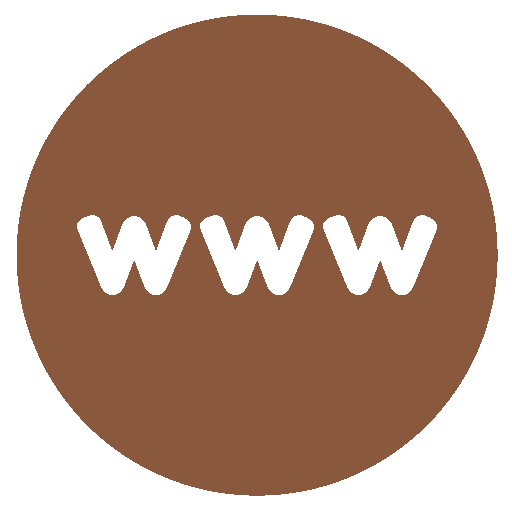
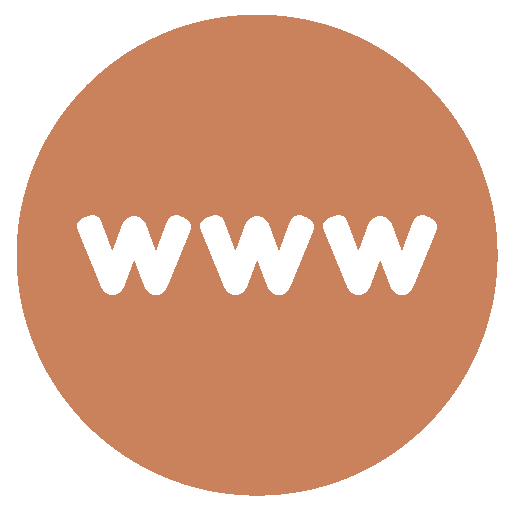
update background image and text color

diff --git a/cv.html b/cv.html
@@ -48,10 +48,8 @@
 
               <div class="accordion-item">
                 <h5 class="accordion-header" id="flush-headingOne">
-                  <button class="accordion-button collapsed" type="button" data-bs-toggle="collapse" data-bs-target="#flush-collapseOne" aria-expanded="false"  aria-controls="flush-collapseOne">
-                    <svg xmlns="http://www.w3.org/2000/svg" width="20" height="20" fill="currentColor" class="bi bi-house-door-fill" viewBox="0 0 16 16">
-                      <path d="M6.5 14.5v-3.505c0-.245.25-.495.5-.495h2c.25 0 .5.25.5.5v3.5a.5.5 0 0 0 .5.5h4a.5.5 0 0 0 .5-.5v-7a.5.5 0 0 0-.146-.354L13 5.793V2.5a.5.5 0 0 0-.5-.5h-1a.5.5 0 0 0-.5.5v1.293L8.354 1.146a.5.5 0 0 0-.708 0l-6 6A.5.5 0 0 0 1.5 7.5v7a.5.5 0 0 0 .5.5h4a.5.5 0 0 0 .5-.5z"/>
-                    </svg>coordo<span class="alt">nn</span>ées
+                  <button class="accordion-button collapsed" type="button" data-bs-toggle="collapse" data-bs-target="#flush-collapseOne" aria-expanded="false" aria-controls="flush-collapseOne">
+                    <svg xmlns="http://www.w3.org/2000/svg" width="20" height="20" fill="currentColor" class="bi bi-house-door-fill" viewBox="0 0 16 16"><path d="M6.5 14.5v-3.505c0-.245.25-.495.5-.495h2c.25 0 .5.25.5.5v3.5a.5.5 0 0 0 .5.5h4a.5.5 0 0 0 .5-.5v-7a.5.5 0 0 0-.146-.354L13 5.793V2.5a.5.5 0 0 0-.5-.5h-1a.5.5 0 0 0-.5.5v1.293L8.354 1.146a.5.5 0 0 0-.708 0l-6 6A.5.5 0 0 0 1.5 7.5v7a.5.5 0 0 0 .5.5h4a.5.5 0 0 0 .5-.5z"/></svg>coordo<span class="alt">nn</span>ées
                   </button>
                 </h5>
                 <div id="flush-collapseOne" class="accordion-collapse collapse" aria-labelledby="flush-headingOne" >
@@ -59,21 +57,21 @@
                     <ul>
                       <li>
                         <a href="https://maps.app.goo.gl/GZMeW5AeQvTWgA489" target="_blank" rel="noopener">
-                          <svg xmlns="http://www.w3.org/2000/svg" width="20" height="20" fill="currentColor" class="bi bi-geo-alt-fill" viewBox="0 0 16 16">
+                          <svg xmlns="http://www.w3.org/2000/svg" width="16" height="16" fill="currentColor" class="bi bi-geo-alt-fill" viewBox="0 0 16 16">
                             <path d="M8 16s6-5.686 6-10A6 6 0 0 0 2 6c0 4.314 6 10 6 10zm0-7a3 3 0 1 1 0-6 3 3 0 0 1 0 6z"/>
                           </svg> 33000 Bordeaux
                         </a>
                       </li>
                       <li>
                         <a href="https://www.linkedin.com/in/carolinevézina" target="_blank" rel="noopener">
-                          <svg xmlns="http://www.w3.org/2000/svg" width="20" height="20" fill="currentColor" class="bi bi-linkedin" viewBox="0 0 16 16">
+                          <svg xmlns="http://www.w3.org/2000/svg" width="16" height="16" fill="currentColor" class="bi bi-linkedin" viewBox="0 0 16 16">
                             <path d="M0 1.146C0 .513.526 0 1.175 0h13.65C15.474 0 16 .513 16 1.146v13.708c0 .633-.526 1.146-1.175 1.146H1.175C.526 16 0 15.487 0 14.854V1.146zm4.943 12.248V6.169H2.542v7.225h2.401zm-1.2-8.212c.837 0 1.358-.554 1.358-1.248-.015-.709-.52-1.248-1.342-1.248-.822 0-1.359.54-1.359 1.248 0 .694.521 1.248 1.327 1.248h.016zm4.908 8.212V9.359c0-.216.016-.432.08-.586.173-.431.568-.878 1.232-.878.869 0 1.216.662 1.216 1.634v3.865h2.401V9.25c0-2.22-1.184-3.252-2.764-3.252-1.274 0-1.845.7-2.165 1.193v.025h-.016a5.54 5.54 0 0 1 .016-.025V6.169h-2.4c.03.678 0 7.225 0 7.225h2.4z"/>
                           </svg> /carolinevézina
                         </a>
                       </li>
                       <li>
                         <a href="mailto:caroline_vezina@hotmail.com" target="_blank" rel="noopener">
-                          <svg xmlns="http://www.w3.org/2000/svg" width="20" height="20" fill="currentColor" class="bi bi-envelope-fill" viewBox="0 0 16 16">
+                          <svg xmlns="http://www.w3.org/2000/svg" width="16" height="16" fill="currentColor" class="bi bi-envelope-fill" viewBox="0 0 16 16">
                             <path d="M.05 3.555A2 2 0 0 1 2 2h12a2 2 0 0 1 1.95 1.555L8 8.414.05 3.555ZM0 4.697v7.104l5.803-3.558L0 4.697ZM6.761 8.83l-6.57 4.027A2 2 0 0 0 2 14h12a2 2 0 0 0 1.808-1.144l-6.57-4.027L8 9.586l-1.239-.757Zm3.436-.586L16 11.801V4.697l-5.803 3.546Z"/>
                           </svg> caroline_vezina@hotmail.com
                         </a>

diff --git a/style.css b/style.css
@@ -57,7 +57,8 @@
 }
 
 header {
-  background: url('images/header.png') no-repeat;
+  background-color: #377a79;
+  /*background: url('images/header.png') no-repeat;*/
   height: 50px;
 }
 
@@ -78,7 +79,7 @@ h2 {
 h3, h3 a{
   font-size: 1.6rem;
   text-align: center;
-  color: #7A5037;
+  color: #5AC7C5;
 }
 h4 {
   font-size: 2rem;
@@ -86,16 +87,12 @@ h4 {
 h5 {
   font-size: 1rem;
   text-align: center;
-  color: #7A5037;
-}
-
-a {
-  color: #BA7954;
+  color: #5AC7C5;
 }
 
 .body {
   padding-top: 17%;
-  background: url('images/body.png') repeat;
+  background: url('images/body.jpg') repeat;
   min-height: 100vh;
 }
 
@@ -129,13 +126,14 @@ ul, a {
   text-align: justify;
 }
 .presentation p {
-  color: #7A5037;
+  color: white;
 }
-.signature {
+.presentation .signature {
   font-family: 'Signature', 'Century Gothic', 'Segoe UI', Tahoma, Geneva, Verdana, sans-serif;
   font-size: 2rem;
   margin-left: 10%;
   font-weight: bold;
+  color: #5AC7C5;
 }
 .cv, .projets {
   text-align: left;
@@ -151,11 +149,11 @@ ul, a {
   color: #7A5037;
 }
 ul .sous-menu {
-  color: #377a79;
+  color: #377A79;
   list-style-type: circle;
 }
 .dropdown-item:hover, .dropdown-item:hover u, .dropdown-item:focus {
-  background-color: #377a79;
+  background-color: #377A79;
   color: white;
 }
 .dropdown {
@@ -169,17 +167,14 @@ ul .sous-menu {
 .dropdown .btn:focus {
   border-color: #BA7954;
 }
-.dropdown .bi-list:hover, .dropdown .bi-list:focus {
-  color: #7A5037;
-}
 
 .accordion {
-  border-bottom: 1px solid #BA7954;
+  border-bottom: 1px solid #7A5037;
   border-radius: 0;
 }
 .accordion-item {
-  border: 1px solid #BA7954;
-  background: rgba(255, 255, 255, 30%);
+  border: 1px solid #7A5037;
+  background: rgba(255, 255, 255, 50%);
 }
 .accordion-item button svg, .accordion-item .accordion-body svg {
   margin-right: 8px;
@@ -203,8 +198,8 @@ ul .sous-menu {
 .accordion-button:not(.collapsed)::after {
   filter: brightness(0%) invert(100%);
 }
-.accordion-body {
-  color: #7A5037;
+.accordion-body, .accordion-body a {
+  color: white;
 }
 .accordion-body ul {
   margin-left: -25px;
@@ -311,18 +306,17 @@ ul .sous-menu {
 }
 .wrapper-projet img {
   width: 100%;
-  object-fit: co;
 }
 .wrapper-projet .tools img {
   width: inherit;
   object-fit: inherit;
 }
 .wrapper-projet .text {
-  color: #7A5037;
+  color: #5AC7C5;
   font-size: 1.25rem;
   text-align: center;
   font-family: 'MuseoModerno', 'Century Gothic', 'Segoe UI', Tahoma, Geneva, Verdana, sans-serif;
-  margin-bottom: -2vh;
+  margin-top: 2rem;
 }
 .wrapper-projet .title {
   display: none;
@@ -330,15 +324,17 @@ ul .sous-menu {
 .wrapper-projet .description {
   grid-column: 1 / 5;
   grid-row: 1;
-  color: #7A5037;
-  text-align: center;
+}
+.wrapper-projet .description p {
+  color: white;
+  text-align: justify;
 }
 .wrapper-projet .description img {
   width: inherit;
   object-fit: contain;
 }
 .wrapper-projet .description .ecole {
-  color: #377a79;
+  color: #BA7954;
   font-weight: bold;
 }
 .wrapper-projet .description .link {
@@ -346,10 +342,13 @@ ul .sous-menu {
   padding-top: 2vh;
   height: 2rem;
 }
+.wrapper-projet .description .link a {
+  color: #BA7954;
+}
 .wrapper-projet .tools {
   grid-column: 1 / 5;
   grid-row: 2;
-  color: #377a79;
+  color: white;
   text-align: center;
   border-bottom: 1px solid #377a79;
   padding-bottom: 2vh;
@@ -729,7 +728,7 @@ ul .sous-menu {
   .accordion-item>h3 {
     font-size: 1rem;
   }
-  a:hover, .navbar-brand:hover {
+  a:hover, .navbar-brand:hover, .description .link a:hover, .dropdown>a:hover {
     color: #7A5037;
   }
   .dropdown {
@@ -743,6 +742,10 @@ ul .sous-menu {
   }
   .body {
     padding-top: 5%;
+  }
+  .accordion-button:hover {
+    color: white;
+    background: #377A79;
   }
   .accordion-body {
     font-size: 0.75rem;

diff --git a/projets/lagrumeindigo.html b/projets/lagrumeindigo.html
@@ -55,15 +55,15 @@
           <p>Dans le cadre de ma formation visé par le <span class="ecole">titre professionnel Développeur Web</span>, j'ai réalisé une évaluation (ECF) durant les mois de septembre et octobre 2022. Puisque cela a été fait en distanciel, j'ai conçu ce projet en total autonomie. 
           L'évaluation consistait à développer une application web de gestion de droit d'accès. Je devais donc créer différents rôles et réaliser une interface adaptable à tous les formats d'écran, personnalisée au type d'utilisateur.</p>
           <p>Le sujet imposé : Une grande Marque de salle de sport souhaite la création d'une application web pour son équipe qui gère leurs différentes franchises et leur donner accès aux outils en ligne. L'administration de la Marque doit pouvoir gérer la création de nouvelles franchises ainsi que leurs salles de sport et leur associer un utilisateur. Elle pourra également gérer l'accès aux outils disponibles de chaque partenaire selon le contrat signé avec ces derniers. Les franchisés et les gérants de salles de sport doivent quant à eux pouvoir utiliser les outils en lignes selon leur contrat respectif, sans pouvoir toutefois modifier leurs informations ou leur contrat.</p>
-          <a href="https://lagrumeindigo.herokuapp.com" target="_blank" ><img src="../images/00_icones/www.png" width="24" height="24" /> lagrumeindigo.herokuapp.com</a></p>
+          <p class="link"><a href="https://lagrumeindigo.herokuapp.com" target="_blank" ><img src="../images/00_icones/www.png" width="24" height="24" /> lagrumeindigo.herokuapp.com</a></p>
         </div>
         <div class="item tools">
           <img src="../images/00_icones/drawio-original.svg" width="16" height="16" /> diagrammes 
             &nbsp&nbsp | &nbsp&nbsp          
           <img src="../images/00_icones/adobe-xd-original.png" width="16" height="16" /> maquettage 
             &nbsp&nbsp | &nbsp&nbsp
-          <img src="../images/00_icones/php-original.jpg" width="16" height="16" />
-          <img src="../images/00_icones/symfony-original.png" width="16" height="16" /> framework
+          <img src="../images/00_icones/php-original.png" width="16" height="16" />
+          <img src="../images/00_icones/symfony.png" width="16" height="16" /> framework
             &nbsp&nbsp | &nbsp&nbsp
           <img src="../images/00_icones/doctrine-original.png" width="16" height="16" /> ORM
             &nbsp&nbsp | &nbsp&nbsp
@@ -77,10 +77,10 @@
             &nbsp&nbsp | &nbsp&nbsp
           <img src="../images/00_icones/Xampp-original.svg" width="16" height="16" /> serveur web local
             &nbsp&nbsp | &nbsp&nbsp
-          <img src="../images/00_icones/sql-original.png" width="16" height="16" />
+          <img src="../images/00_icones/sql-original2.png" width="16" height="16" />
           <img src="../images/00_icones/JawsDB-original.jpg" width="16" height="16" /> base de données 
             &nbsp&nbsp | &nbsp&nbsp
-          <img src="../images/00_icones/github-original.svg" width="16" height="16" /> dépôt en ligne 
+          <img src="../images/00_icones/github.svg" width="16" height="16" /> dépôt en ligne 
             &nbsp&nbsp | &nbsp&nbsp
           <img src="../images/00_icones/heroku-original.png" width="16" height="16" /> déploiement du site en ligne
         </div>

diff --git a/projets/asso-vignoblebordeaux.html b/projets/asso-vignoblebordeaux.html
@@ -54,7 +54,7 @@
           <h3 class="title-mobile">Association de vignobles de Bordeaux</h3>
           <p>Afin de mettre en pratique les compétences Front-End visé par le <span class="ecole">titre professionnel Développeur Web</span>, cette évaluation d'entraînement était disponible.</p> 
           <p>Cette évaluation consistait à concevoir un site vitrine en mobile first pour une association de notre choix, réelle ou fictive. Le site devait contenir au moins 2 pages, soit l'accueil et une page d'événements.</p>
-          <a href="https://asso-vignoblebordeaux.netlify.app" target="_blank" ><img src="../images/00_icones/www.png" width="24" height="24" /> asso-vignoblebordeaux.netlify.app</a>
+          <p class="link"><a href="https://asso-vignoblebordeaux.netlify.app" target="_blank" ><img src="../images/00_icones/www.png" width="24" height="24" /> asso-vignoblebordeaux.netlify.app</a></p>
         </div>
         <div class="item tools">
           <img src="../images/00_icones/html5-original.svg" width="16" height="16" />
@@ -62,7 +62,7 @@
             &nbsp&nbsp | &nbsp&nbsp 
           <svg xmlns="http://www.w3.org/2000/svg" width="16" height="16" fill="#563d7c" viewBox="0 0 16 16"><path d="M6.375 7.125V4.658h1.78c.973 0 1.542.457 1.542 1.237 0 .802-.604 1.23-1.764 1.23H6.375zm0 3.762h1.898c1.184 0 1.81-.48 1.81-1.377 0-.885-.65-1.348-1.886-1.348H6.375v2.725z"/><path d="M4.002 0a4 4 0 0 0-4 4v8a4 4 0 0 0 4 4h8a4 4 0 0 0 4-4V4a4 4 0 0 0-4-4h-8zm1.06 12V3.545h3.399c1.587 0 2.543.809 2.543 2.11 0 .884-.65 1.675-1.483 1.816v.1c1.143.117 1.904.931 1.904 2.033 0 1.488-1.084 2.396-2.888 2.396H5.062z"/></svg> composants <i>Accordion</i> & <i>Cards</i> 
             &nbsp&nbsp | &nbsp&nbsp
-          <img src="../images/00_icones/github-original.svg" width="16" height="16" /> dépôt en ligne 
+          <img src="../images/00_icones/github.svg" width="16" height="16" /> dépôt en ligne 
             &nbsp&nbsp | &nbsp&nbsp
           <img src="../images/00_icones/netlify-original.svg" width="16" height="16" /> déploiement du site en ligne
         </div>

diff --git a/projets/dicegame.html b/projets/dicegame.html
@@ -54,7 +54,7 @@
           <h3 class="title-mobile">Dice Game</h3>
           <p>Afin de mettre en pratique les compétences JavaScript visé par le <span class="ecole">titre professionnel Développeur Web</span>, cette évaluation d'entraînement était disponible.</p> 
           <p>Il s'agit de concevoir un jeu sur naviguateur web à l'aide du DOM.</p>
-          <a href="https://dicegame50.netlify.app" target="_blank" ><img src="../images/00_icones/www.png" width="24" height="24" /> dicegame50.netlify.app</a>
+          <p class="link"><a href="https://dicegame50.netlify.app" target="_blank" ><img src="../images/00_icones/www.png" width="24" height="24" /> dicegame50.netlify.app</a></p>
         </div>
         <div class="item tools">
           <img src="../images/00_icones/JavaScript-original.png" width="16" height="16" /> filtre dynamique & menu burger
@@ -64,7 +64,7 @@
             &nbsp&nbsp | &nbsp&nbsp 
           <svg xmlns="http://www.w3.org/2000/svg" width="16" height="16" fill="#563d7c" viewBox="0 0 16 16"><path d="M6.375 7.125V4.658h1.78c.973 0 1.542.457 1.542 1.237 0 .802-.604 1.23-1.764 1.23H6.375zm0 3.762h1.898c1.184 0 1.81-.48 1.81-1.377 0-.885-.65-1.348-1.886-1.348H6.375v2.725z"/><path d="M4.002 0a4 4 0 0 0-4 4v8a4 4 0 0 0 4 4h8a4 4 0 0 0 4-4V4a4 4 0 0 0-4-4h-8zm1.06 12V3.545h3.399c1.587 0 2.543.809 2.543 2.11 0 .884-.65 1.675-1.483 1.816v.1c1.143.117 1.904.931 1.904 2.033 0 1.488-1.084 2.396-2.888 2.396H5.062z"/></svg> composants <i>Modal</i> 
             &nbsp&nbsp | &nbsp&nbsp
-          <img src="../images/00_icones/github-original.svg" width="16" height="16" /> dépôt en ligne 
+          <img src="../images/00_icones/github.svg" width="16" height="16" /> dépôt en ligne 
             &nbsp&nbsp | &nbsp&nbsp
           <img src="../images/00_icones/netlify-original.svg" width="16" height="16" /> déploiement du site en ligne & formulaire de contact
         </div>

diff --git a/projets/lajungleverte.html b/projets/lajungleverte.html
@@ -54,7 +54,7 @@
           <h3 class="title-mobile">La jungle verte</h3>
           <p>Afin de développer davantage mes compétences en <span class="ecole">développement web</span>, j'ai suivi un cours en libre accès sur OpenClassrooms.</p>
           <p>Il s'agit de concevoir un site pour un magasin de plantes avec React.</p>
-          <a href="https://lajungleverte.netlify.app/" target="_blank" ><img src="../images/00_icones/www.png" width="24" height="24" /> lajungleverte.netlify.app</a>
+          <p class="link"><a href="https://lajungleverte.netlify.app/" target="_blank" ><img src="../images/00_icones/www.png" width="24" height="24" /> lajungleverte.netlify.app</a></p>
         </div>
         <div class="item tools">
           <img src="../images/00_icones/React-original.svg" width="16" height="16" /> bibliothèque JavaScript
@@ -62,7 +62,7 @@
           <img src="../images/00_icones/html5-original.svg" width="16" height="16" />
           <img src="../images/00_icones/css3-original.svg" width="16" height="16" /> structure & style du contenu
             &nbsp&nbsp | &nbsp&nbsp 
-          <img src="../images/00_icones/github-original.svg" width="16" height="16" /> dépôt en ligne 
+          <img src="../images/00_icones/github.svg" width="16" height="16" /> dépôt en ligne 
             &nbsp&nbsp | &nbsp&nbsp
           <img src="../images/00_icones/netlify-original.svg" width="16" height="16" /> déploiement du site en ligne 
         </div>

diff --git a/projets/oursupermusicapp.html b/projets/oursupermusicapp.html
@@ -54,7 +54,7 @@
           <h3 class="title-mobile">Our super music app</h3>
           <p>Durant ma formation de développeur web, j'ai fait cet exercice dans le cadre d'un cours.</p>
           <p>Il s'agit de développer une interface inspirée des instruments de musique électronique avec React.</p>
-          <a href="https://oursupermusicapp.netlify.app" target="_blank" ><img src="../images/00_icones/www.png" width="24" height="24" /> oursupermusicapp.netlify.app</a>
+          <p class="link"><a href="https://oursupermusicapp.netlify.app" target="_blank" ><img src="../images/00_icones/www.png" width="24" height="24" /> oursupermusicapp.netlify.app</a></p>
         </div>
         <div class="item tools">
           <img src="../images/00_icones/React-original.svg" width="16" height="16" /> bibliothèque JavaScript
@@ -62,7 +62,7 @@
           <img src="../images/00_icones/html5-original.svg" width="16" height="16" />
           <img src="../images/00_icones/css3-original.svg" width="16" height="16" /> structure & style du contenu
             &nbsp&nbsp | &nbsp&nbsp 
-          <img src="../images/00_icones/github-original.svg" width="16" height="16" /> dépôt en ligne 
+          <img src="../images/00_icones/github.svg" width="16" height="16" /> dépôt en ligne 
             &nbsp&nbsp | &nbsp&nbsp
           <img src="../images/00_icones/netlify-original.svg" width="16" height="16" /> déploiement du site en ligne 
         </div>

diff --git a/projets/carolinealetranger.html b/projets/carolinealetranger.html
@@ -55,7 +55,7 @@
           <p>Durant mon temps <span class="ecole">personnel</span>, j'ai mis en pratique certaines compétences aquises.</p>
           <p>Il s'agit d'un site web pour un blogue de photos de mes voyages.</p>
           <p>Site toujours en construction.</p>
-          <a href="https://carolinealetranger.netlify.app" target="_blank" ><img src="../images/00_icones/www.png" width="24" height="24" /> carolinealetranger.netlify.app</a>
+          <p class="link"><a href="https://carolinealetranger.netlify.app" target="_blank" ><img src="../images/00_icones/www.png" width="24" height="24" /> carolinealetranger.netlify.app</a></p>
         </div>
         <div class="item tools">
           <img src="../images/00_icones/adobe-xd-original.png" width="16" height="16" />
@@ -73,7 +73,7 @@
             &nbsp&nbsp | &nbsp&nbsp
           <img src="../images/00_icones/JavaScript-original.png" width="16" height="16" /> filtre dynamique & menu burger
             &nbsp&nbsp | &nbsp&nbsp
-          <img src="../images/00_icones/github-original.svg" width="16" height="16" /> dépôt en ligne 
+          <img src="../images/00_icones/github.svg" width="16" height="16" /> dépôt en ligne 
             &nbsp&nbsp | &nbsp&nbsp
           <img src="../images/00_icones/netlify-original.svg" width="16" height="16" /> déploiement du site en ligne & formulaire de contact
         </div>

diff --git a/projets/av.html b/projets/av.html
@@ -54,7 +54,7 @@
           <h3 class="title-mobile">agence de voyage AV</h3>
           <p>Afin de mettre en pratique les compétences visé par le <span class="ecole">titre professionnel Développeur Web</span>, cette évaluation d'entraînement sur WordPress était disponible.</p> 
           <p>Une agence de voyage souhaite mettre en place un site vitrine, afin de rendre leurs activités plus visibles et accessibles via le web. L'agence souhaite avoir deux comptes utilisateurs (Admin et Éditeur), avec leurs droits et rôles dans le respect des règles de sécurité. La structure du site doit être adaptée afin de permettre à l'utilisateur d'en gérer le contenu et d'en suivre l'activité. Aussi, un visiteur pourra contacter l'agence via un formulaire de contact.</p>
-          <a href="https://agencevoyageav.go.yj.fr" target="_blank" ><img src="../images/00_icones/www.png" width="24" height="24" /> agencevoyageav.go.yj.fr</a>
+          <p class="link"><a href="https://agencevoyageav.go.yj.fr" target="_blank" ><img src="../images/00_icones/www.png" width="24" height="24" /> agencevoyageav.go.yj.fr</a></p>
         </div>
         <div class="item tools">
           <img src="../images/00_icones/adobe-xd-original.png" width="16" height="16" /> maquettage 

diff --git a/projets/charlescantin.html b/projets/charlescantin.html
@@ -69,9 +69,9 @@
             &nbsp&nbsp | &nbsp&nbsp
           <img src="../images/00_icones/JavaScript-original.png" width="16" height="16" /> filtre dynamique & menu burger
             &nbsp&nbsp | &nbsp&nbsp
-          <img src="../images/00_icones/github-original.svg" width="16" height="16" /> dépôt en ligne 
+          <img src="../images/00_icones/github.svg" width="16" height="16" /> dépôt en ligne 
             &nbsp&nbsp | &nbsp&nbsp
-          <img src="../images/00_icones/Forestry-original.png" width="16" height="16" /> système de gestion de contenu (CMS) 
+          <img src="../images/00_icones/Forestry.png" width="16" height="16" /> système de gestion de contenu (CMS) 
             &nbsp&nbsp | &nbsp&nbsp
           <img src="../images/00_icones/netlify-original.svg" width="16" height="16" /> déploiement du site en ligne & formulaire de contact
         </div>

diff --git a/index.html b/index.html
@@ -42,7 +42,7 @@
         <p>Mon expérience en architecture d'intérieur se rapproche des interfaces utilisateur à réaliser dans le web, soit de jouer avec les espaces et optimiser l'efficacité d'utilisation. Alors que pour mes expériences en gestion, j'ai dû collaborer avec des clients et différents corps de métier pour organiser des projets et faire face aux imprévus ou aux changements d'idées créatives.</p>
         <p>Je recherche un CDD ou CDI dans l'immédiat.</p>
         </br>
-        <p class="signature">Caroline Vézina</p>       
+        <p class="signature">Caroline Vézina</p>
       </div>
     </div>
 
